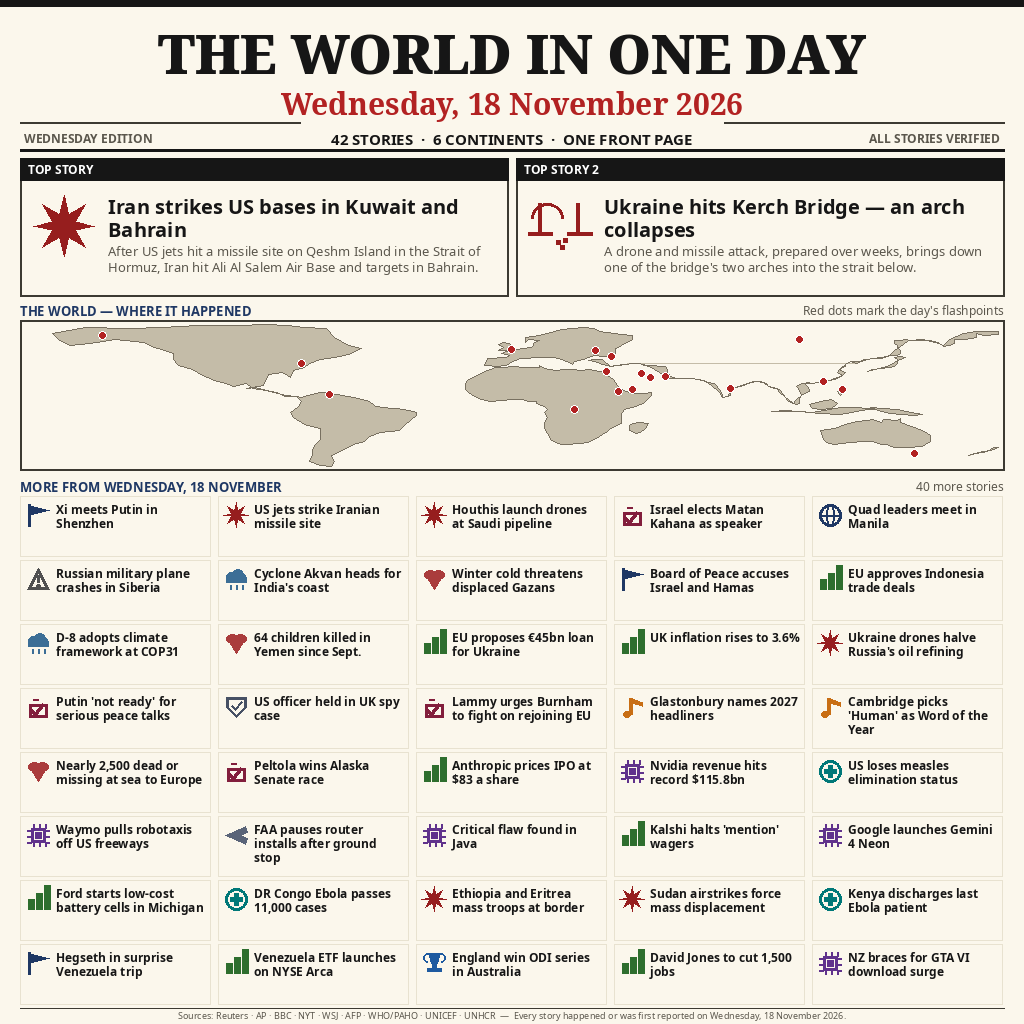
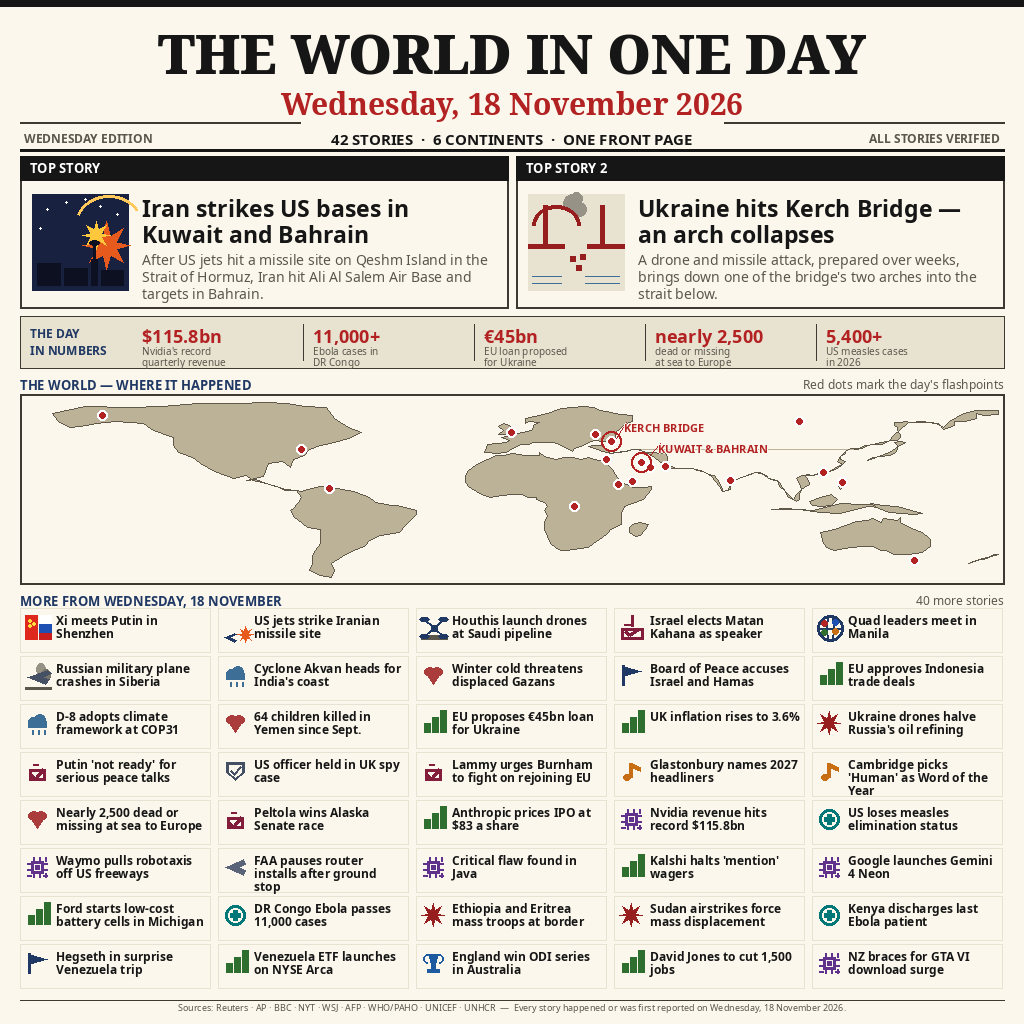
news-image-20261118 v2: bigger leads with illustrated scenes, Day in Numbers strip, larger labelled map, illustrated top-6 panels

Changed region(s): [[0.0, 0.1562, 1.0, 1.0]]

diff --git a/README.md b/README.md
@@ -4,7 +4,7 @@
 [![rank](https://make.fun/badge/news-image-20261118/septadoni12-eng/news-image-20261118/rank.svg)](https://make.fun/bounty/news-image-20261118/leaderboard?utm_source=github&utm_medium=readme&utm_campaign=news-image-20261118)
 [![reward](https://make.fun/badge/news-image-20261118/septadoni12-eng/news-image-20261118/reward.svg)](https://make.fun/bounty/news-image-20261118?utm_source=github&utm_medium=readme&utm_campaign=news-image-20261118)
 
-A make.fun **news-image-20261118** entry: one image summing up the world news of **Wednesday, 18 November 2026**. A dated broadsheet front page — masthead naming the full date, two lead stories (Iran's strikes on US bases in Kuwait and Bahrain after the US hit Qeshm Island; Ukraine's hit on the Kerch Bridge, an arch collapsing), 40 more verified stories from all 6 continents across war, diplomacy, economy, technology, health, culture, sport and climate, and a world map marking the day's flashpoints. Every story was verified against a reputable source dated 18 November 2026. The image is entirely our own drawn work: no copied photos or artwork.
+A make.fun **news-image-20261118** entry: one image summing up the world news of **Wednesday, 18 November 2026**. A dated broadsheet front page — masthead naming the full date, two lead stories (Iran's strikes on US bases in Kuwait and Bahrain after the US hit Qeshm Island; Ukraine's hit on the Kerch Bridge, an arch collapsing) with illustrated scenes, a "The Day in Numbers" strip (Nvidia's $115.8bn record revenue, 11,000+ Ebola cases in DR Congo, the EU's €45bn Ukraine loan, nearly 2,500 dead or missing at sea to Europe, 5,400+ US measles cases), 40 more verified stories from all 6 continents across war, diplomacy, economy, technology, health, culture, sport and climate, and a world map marking the day's flashpoints with the two lead locations ringed and labelled. Every story was verified against a reputable source dated 18 November 2026. The image is entirely our own drawn work: no copied photos or artwork.
 
 Story spread: Asia 13 · Europe 10 · North America 10 · Africa 4 · South America 2 · Oceania 3 = 42 stories, 6 continents.
 
